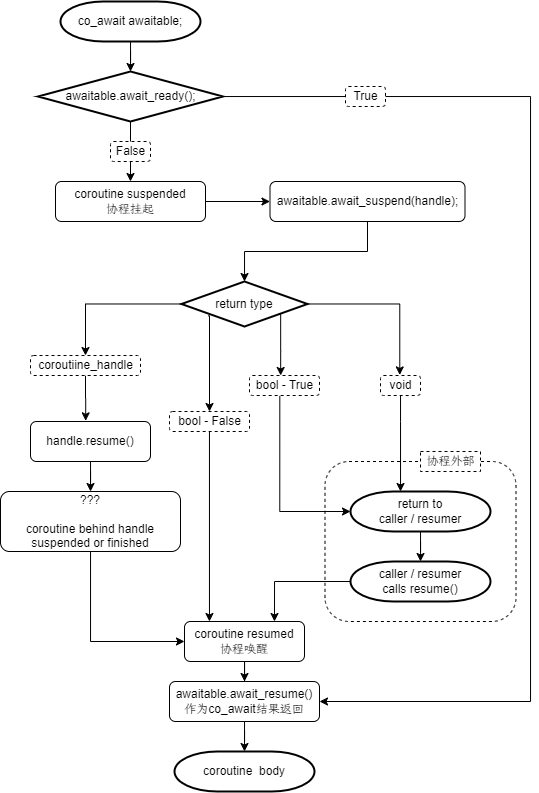
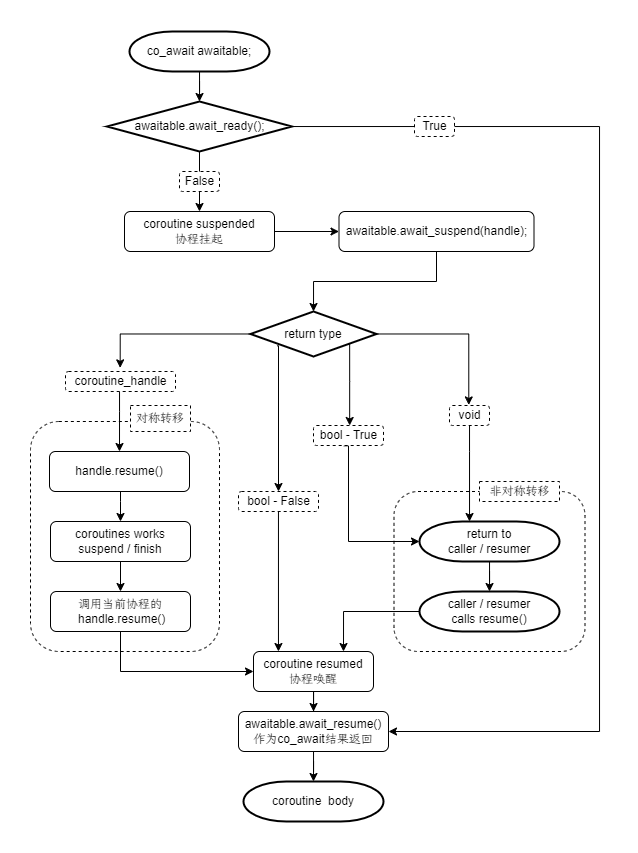
C++ coroutines 协程 v8 “完善 co_await 流程图”

diff --git a/C++Notes/Coroutines/Code/Awaiter.cpp b/C++Notes/Coroutines/Code/Awaiter.cpp
@@ -1,0 +1,89 @@
+#include <coroutine>
+#include <iostream>
+
+struct CoroutineTask {
+    struct promise_type {
+        auto initial_suspend() {
+            std::cout << "initial_suspend called" << std::endl;
+            return std::suspend_always{};
+        }
+        auto final_suspend() noexcept {
+            std::cout << "final_suspend called" << std::endl;
+            return std::suspend_always{};
+        }
+        CoroutineTask get_return_object() {
+            std::cout << "get_return_object called" << std::endl;
+            return CoroutineTask{
+                std::coroutine_handle<promise_type>::from_promise(*this)};
+        }
+        void return_void() { std::cout << "co_return called" << std::endl; }
+        void unhandled_exception() {}
+        ~promise_type() {
+            std::cout << "Promise Destructor called" << std::endl;
+        }
+        int value = 0;
+    };
+
+    struct Awaiter {
+        int value;
+        bool await_ready() const noexcept { return false; }
+        void await_suspend(std::coroutine_handle<promise_type> handle) noexcept {
+            handle.promise().value = value;
+            std::cout << "Awaiter await_suspend execute" << std::endl;
+        }
+        void await_resume() const noexcept { std::cout << "Awaiter await_resume execute" << std::endl; }
+    };
+    std::coroutine_handle<promise_type> coro_handle;
+
+    // 为了避免协程所有权混乱，注意将协程类型仅允许移动构造;
+    //  Making Task move-only:
+    CoroutineTask(std::coroutine_handle<promise_type> handle)
+        : coro_handle(handle){};
+    CoroutineTask(const CoroutineTask&) = delete;
+    CoroutineTask& operator=(const CoroutineTask&) = delete;
+    CoroutineTask(CoroutineTask&& task) noexcept
+        : coro_handle(task.coro_handle) {
+        task.coro_handle = {};
+    }
+    CoroutineTask& operator=(CoroutineTask&& task) noexcept {
+        if (this == &task) return *this;
+        if (coro_handle) coro_handle.destroy();
+        coro_handle = task.coro_handle;
+        task.coro_handle = {};
+        return *this;
+    }
+    ~CoroutineTask() {
+        if (coro_handle) coro_handle.destroy();
+        std::cout << "Destructor called" << std::endl;
+    }
+    void resume() {
+        std::cout << "Call Coroutine resume" << std::endl;
+        coro_handle.resume();
+    }
+    int getValue(){
+        return coro_handle.promise().value;
+    }
+};
+auto operator co_await(CoroutineTask::Awaiter&& awaiter) {
+    awaiter.value = 2;
+    std::cout << "co_await awaiter.value modified;" << std::endl;
+    return awaiter;
+}
+CoroutineTask simpleCoroutine() {
+    std::cout << "Coroutine body started" << std::endl;
+    co_await std::move(CoroutineTask::Awaiter{});
+    std::cout << "Coroutine co_return started" << std::endl;
+    co_return;
+}
+
+int main() {
+    std::cout << "Main function" << std::endl;
+    auto coro = simpleCoroutine();
+    std::cout << "coroutine initial_suspend : value = "<< coro.getValue() << std::endl;
+    std::cout << "Main function resume coroutine" << std::endl;
+    coro.resume();
+    std::cout << "coroutine await_suspend : value = "<< coro.getValue() << std::endl;
+    coro.resume();
+    std::cout << "Main function end" << std::endl;
+    return 0;
+}

diff --git a/C++Notes/C++ Coroutines.md b/C++Notes/C++ Coroutines.md
@@ -2,9 +2,10 @@
 
 - [协程的概念](#协程的概念)
 - [co\_await](#co_await)
-  - [Awaitable 和 Awaiter 的解释](#awaitable-和-awaiter-的解释)
-    - [cppreference的详解](#cppreference的详解)
-  - [自定义 co\_await](#自定义-co_await)
+  - [Awaitable 和 Awaiter](#awaitable-和-awaiter)
+    - [cppreference 的详解](#cppreference-的详解)
+    - [简述 Awaitable 和 Awaiter](#简述-awaitable-和-awaiter)
+  - [自定义 Awaiter](#自定义-awaiter)
 - [coroutine\_handle](#coroutine_handle)
 - [Coroutine body 协程体的简略执行逻辑](#coroutine-body-协程体的简略执行逻辑)
 - [co\_yield](#co_yield)
@@ -14,8 +15,7 @@
     - [coroutine\_traits的协程特化](#coroutine_traits的协程特化)
 - [协程执行流程图](#协程执行流程图)
   - [图解协程代码运行逻辑](#图解协程代码运行逻辑)
-  - [图解 Awaitable 运行逻辑](#图解-awaitable-运行逻辑)
-  - [图解 generator 运行逻辑](#图解-generator-运行逻辑)
+  - [图解 co\_await 运行逻辑](#图解-co_await-运行逻辑)
 - [有栈协程与无栈协程的区别](#有栈协程与无栈协程的区别)
 - [reference 参考资料](#reference-参考资料)
 
@@ -63,7 +63,7 @@ auto result = __a.await_resume();
 如果 await_ready() 返回True，就代表不需要真正挂起，直接返回后面的结果就可以；
 否则 await_ready() 返回False，返回执行 await_suspend 之后即挂起协程，等待协程被唤醒之后再返回 await_resume() 的结果。
 由 await_resume() 返回 co_await 结果.
-<u>这样的一个"表达式"被称作是个[awaitable]( #awaitable-和-awaiter-的解释)。</u>
+这样的一个"表达式"被称作是个 awaitable 。
 
 标准里定义了两个 awaitable，如下所示：
 ```c++
@@ -75,7 +75,7 @@ struct suspend_always {
   void await_suspend( coroutine_handle<> ) const noexcept {}
   void await_resume() const noexcept {}
 };
-
+----------
 struct suspend_never {
   bool await_ready() const noexcept
   {
@@ -91,8 +91,8 @@ struct suspend_never {
 两者的 await_suspend 和 await_resume 都是平凡实现，不做任何实际的事情。
 一个 awaitable 可以*自行实现这些接口*`await_ready`、`await_suspend` 和 `await_resume`，以定制对应的**挂起之前、如何挂起、恢复之后**需要执行的操作.
 
-### Awaitable 和 Awaiter 的解释
-#### cppreference的详解
+### Awaitable 和 Awaiter 
+#### cppreference 的详解
 [cppreference的awaitable&&awaiter介绍，在co_await讲解里面。](https://en.cppreference.com/w/cpp/language/coroutines)
 
 ![awaitable&&awaiter](./Coroutines/Images/awaitable&&awaiter.png)
@@ -109,15 +109,43 @@ ps:建议先看英文，译文可能无法准确表达信息。
    * 否则，<b> 如果重载决议找不到 operator co_await，那么 Awaiter 是 Awaitable 本身 </b>。
    * 否则，如果重载决议有歧义，那么程序非良构。
 
-### 自定义 co_await
-实际上，对于 co_await <expr> 表达式当中 expr 的处理，C++ 有一套完善的流程：
+#### 简述 Awaitable 和 Awaiter
 
-如果 promise_type 当中定义了 await_transform 函数，那么先通过 promise.await_transform(expr) 来对 expr 做一次转换，得到的对象称为 awaitable；否则 awaitable 就是 expr 本身。
-接下来使用 Awaitable 对象来获取 Awaiter 。如果 Awaitable 对象有 operator co_await 运算符重载，那么 Awaiter 就是 operator co_await(awaitable)，否则 Awaiter 就是 awaitable 对象本身。
+实际上，对于 `co_await <expr>` 表达式当中 `<expr>` 的处理:
 
-听上去，我们要么给 promise_type 实现一个 await_transform() 函数，要么就为 Awaitable 实现一个 operator co_await 的运算符重载，二者选一个就可以了。
-* 方案一: 实现 promise_type::await_transform ;
-    ```
+1、 如果 promise 类型有一个名为 `await_transform` 的成员，那么首先将 `<expr>` 传递到对 `promise.await_transform(<expr>)` 的调用中以获取 Awaitable 类型 awaitable 。否则，如果 promise 类型没有 await_transform 成员，那么我们直接使用 `<expr>` 的求值结果作为 Awaitable 对象 awaitable。
+
+2、 接下来使用 Awaitable 对象来获取 Awaiter 。如果 Awaitable 对象（awaitable）有 operator co_await 运算符重载，那么 Awaiter 就是 operator co_await(awaitable)，否则 Awaiter 就是 awaitable 对象本身。
+
+如果我们将这些规则用code描述成函数 get_awaitable() 和 get_awaiter() ，它们可能看起来像这样：
+```C++
+template<typename P, typename T>
+decltype(auto) get_awaitable(P& promise, T&& expr)
+{
+  if constexpr (has_any_await_transform_member_v<P>)
+    return promise.await_transform(static_cast<T&&>(expr));
+  else
+    return static_cast<T&&>(expr);
+}
+
+template<typename Awaitable>
+decltype(auto) get_awaiter(Awaitable&& awaitable)
+{
+  if constexpr (has_member_operator_co_await_v<Awaitable>)
+    return static_cast<Awaitable&&>(awaitable).operator co_await();
+  else if constexpr (has_non_member_operator_co_await_v<Awaitable&&>)
+    return operator co_await(static_cast<Awaitable&&>(awaitable));
+  else
+    return static_cast<Awaitable&&>(awaitable);
+}
+```
+
+### 自定义 Awaiter
+
+根据前文，我们要么给 promise_type 实现一个返回 awaitable 的 await_transform() 函数，要么就为 Awaitable 实现一个 operator co_await 的运算符重载，二者选一个就可以了。
+
+* 方案一: 实现返回 awaitable 的 promise_type::await_transform() 函数;
+    ```C++
     struct Generator {
         struct promise_type {
             ...
@@ -130,7 +158,7 @@ ps:建议先看英文，译文可能无法准确表达信息。
     }
     ```
 * 方案二: 实现 operator co_await的重载:
-    ```
+    ```C++
     struct Awaiter {
         bool await_ready() const noexcept {
             return false;
@@ -330,9 +358,9 @@ coroutine_traits：https://en.cppreference.com/w/cpp/coroutine/coroutine_traits
 ![coroutineFlowChart](./Coroutines/Images/coroutineFlowChart.png)
 
 https://godbolt.org/z/qnx5xP5c4
-注意,以下协程代码在initial_suspned()和final_suspend()处挂起,协程函数体无挂起直接 co_return .
+注意,以下协程代码在initial_suspned()和final_suspend()处挂起, 在协程函数体 coroutine body 无挂起直接 co_return .
 ```C++
-#include <coroutine>
+#include <coroutine>    
 #include <iostream>
 
 struct CoroutineTask {
@@ -408,9 +436,9 @@ Main function end
 Promise Destructor called
 Destructor called
 ```
-### 图解 Awaitable 运行逻辑
+### 图解 co_await 运行逻辑
 
-由于<a href="#awaitable"> <u>co_await awaitable </u>的编译器实现逻辑 </a>, Awaitable 类型需要提供三种方法：
+由于前文<a href="#awaitable"> <u>co_await awaitable </u></a>的实现逻辑, Awaitable 类型需要提供三种方法：
 ```c++
 struct awaitable {
     bool await_ready();
@@ -424,16 +452,57 @@ struct awaitable {
 };
 ```
 
-![返回coroutine_handle需要研究下
-](./Coroutines/Images/awaitable.png)
+因此，假设我们已将把 `<expr>` 结果转化为 Awaiter 对象的逻辑封装到上述函数中，那么 `co_await <expr>` 的语义可以（大致）翻译如下：
+
+```C++
+{
+  auto&& value = <expr>;
+  auto&& awaitable = get_awaitable(promise, static_cast<decltype(value)>(value));
+  auto&& awaiter = get_awaiter(static_cast<decltype(awaitable)>(awaitable));
+
+  if (!awaiter.await_ready())
+  {
+    using coroutine_handle = std::coroutine_handle<promise_type>::from_promise(promise));
+    using await_suspend_result_t = decltype(awaiter.await_suspend(coroutine_handle));
+
+    <suspend coroutine> //挂起当前协程
+
+    if (std::is_void_v<await_suspend_result_t>)
+    {
+        awaiter.await_suspend(coroutine_handle);
+        <return to caller/resumer> // 协程外部,
+    }
+    else if (std::is_bool_v<await_suspend_result_t>)
+    {
+        auto await_suspend_result = awaiter.await_suspend(coroutine_handle);
+        if(await_suspend_result == true)
+            <return to caller/resumer> // 协程外部
+    }
+    else{ 
+        auto another_coro_handle = awaiter.await_suspend(coroutine_handle);
+        another_coro_handle.resume();
+        <return to caller/resumer> // 协程外部
+    }
+
+    <resume-point> //唤醒当前协程
+  }
+
+  return awaiter.await_resume();
+}
+```
+await_suspend() 有三种返回值：
+
+* 如果返回值为 void，将会直接跳转到当前协程的调用方；
+* 如果返回值为 bool，那么为 true 时，会跳转到当前协程的调用方；为 false 时，会恢复当前协程；
+* 如果返回值为 coroutine_handle，那么就会跳转到其它的协程，亦即其它协程将被恢复。
+
+<b>非对称转移</b>：协程的调用者在恢复的协程执行时在堆栈上保持活动状态。当此协程下次挂起并且对该挂起点调用await_suspend()返回void（指示无条件挂起）或true（指示有条件挂起）时，调用 handle.resume() 后将返回给协程的调用者。这可以被认为是执行到协程的“非对称转移”，其行为就像普通的函数调用一样。
+
+<b>对称转移</b>：如果返回值为 coroutine_handle，我们只是暂停一个协程并恢复另一个协程。两个协程之间不存在隐式的调用者/被调用者关系 - 当协程挂起时，它可以将执行转移到任何挂起的协程（包括其自身），并且在下次挂起或完成时不一定必须将执行转移回前一个协程。
+只要通过 handle.resume() 便能恢复协程。由此，我们可以就此构成了一个循环链。当协程函数执行完毕或通过 co_return 返回，将打破循环。
+
+![coroutine_handle](./Coroutines/Images/awaitable.png)
 https://godbolt.org/z/rTe1Gdvnh
-
-https://lewissbaker.github.io/2017/11/17/understanding-operator-co-await
-
-awaitable.await_suspend(handle);返回handle不理解可见：
-https://lewissbaker.github.io/2020/05/11/understanding_symmetric_transfer
-### 图解 generator 运行逻辑
-[待完善]
 
 ## 有栈协程与无栈协程的区别
 **有栈协程:**
